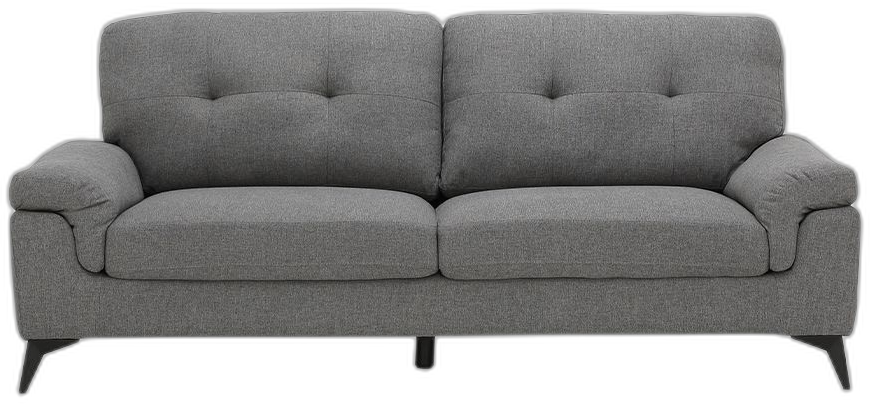
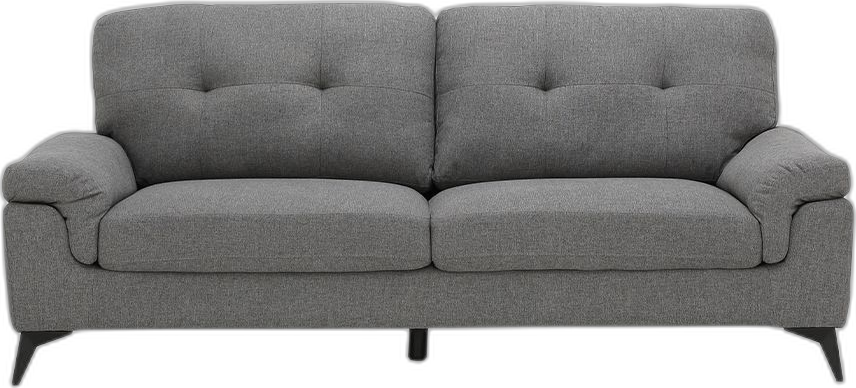
Polish constructor visuals + multi-wall rooms + expand photo catalog to 15
- Premium scene: wall lighting + vignette, floor reflections, soft contact shadows (furniture grounded, no longer floating), wall-floor AO, on-wall shadows, baseboard
- Rooms now have 4 walls each: switcher in side panel, per-wall items, color/height per room, width per wall; order aggregates across all walls
- Catalog: +10 real cutout products (table, TV stand, coffee table, armchair, dresser, washer, kitchen base, hood, toilet, shelf), pixel-accurate aspect so photos do not distort
- fetch_products.py: alpha-threshold trim (45) so cutouts sit flat on the floor

diff --git a/app/index.html b/app/index.html
@@ -112,6 +112,16 @@
   .sw:hover{transform:scale(1.06)}
   .sw.on{border-color:var(--ink);box-shadow:0 0 0 2px var(--surface) inset}
   .sw-name{padding:0 16px 10px;font-size:12px;color:var(--ink-2)}
+  .wallnav{display:flex;align-items:center;gap:10px;padding:14px 16px 2px}
+  .wnav-btn{width:32px;height:32px;flex:none;border-radius:8px;border:1px solid var(--line-2);background:var(--surface);font-size:18px;color:var(--ink-2);display:grid;place-items:center;transition:all .15s}
+  .wnav-btn:hover{background:var(--bg);border-color:var(--accent);color:var(--accent)}
+  .wallnav-mid{flex:1;text-align:center;font-size:12.5px;min-width:0}
+  .wallnav-mid b{display:block;font-weight:600;white-space:nowrap;overflow:hidden;text-overflow:ellipsis}
+  .wallnav-dots{display:inline-flex;gap:6px;margin-top:6px}
+  .wallnav-dots i{width:8px;height:8px;border-radius:50%;background:var(--line-2);cursor:pointer;transition:transform .12s}
+  .wallnav-dots i:hover{transform:scale(1.35)}
+  .wallnav-dots i.has{background:var(--accent)}
+  .wallnav-dots i.on{background:var(--ink);box-shadow:0 0 0 3px var(--accent-soft)}
   .sel-card{border-top:1px solid var(--line);padding-bottom:8px}
   .sel-card .head{padding:12px 16px 2px}
   .sel-card .head b{font-size:13.5px}
@@ -267,11 +277,21 @@ const CATALOG = [
   {sku:'WC38',name:'Унитаз',store:'homepro',price:5990,w:38,h:78,mount:'floor',draw:'toilet',vars:[{name:'Белый',fill:'#eeebe4'}],rooms:['bath']},
   {sku:'SHW90',name:'Душевой уголок 90',store:'homepro',price:11990,w:90,h:200,mount:'floor',draw:'shower',vars:[{name:'Стекло',fill:'#cfe0e6'}],rooms:['bath']},
   // --- Этап B: реальные товары с вырезанными фото (Firecrawl scrape + rembg) ---
-  {sku:'R-FRIDGE',name:'Холодильник Toshiba 11.9 фт³',store:'homepro',price:9290,old:13990,w:60,h:161,mount:'floor',img:'fridge-toshiba.png',draw:'fridge',vars:[{name:'Тёмно-синий',fill:'#2b3138'}],rooms:['kitchen']},
-  {sku:'R-SOFAL',name:'Диван 3-местный Lamona',store:'index',price:9990,w:214,h:99,mount:'floor',img:'sofa-lamona.png',draw:'sofa',vars:[{name:'Серый',fill:'#8e8a84'}],rooms:['living']},
-  {sku:'R-SOFAK',name:'Диван угловой Koncept Zette',store:'homepro',price:12255,old:15600,w:213,h:109,mount:'floor',img:'sofa-koncept.png',draw:'sofa',vars:[{name:'Шоколад',fill:'#5a4a42'}],rooms:['living']},
-  {sku:'R-WARD',name:'Шкаф 4-дверный Maxi',store:'index',price:17990,w:180,h:218,mount:'floor',img:'wardrobe-maxi.png',draw:'wardrobe',vars:[{name:'Серый',fill:'#b7b3ad'}],rooms:['bedroom','living']},
-  {sku:'R-BED',name:'Кровать Rotterdam 6 фт',store:'index',price:8590,w:165,h:102,mount:'floor',img:'bed-rotterdam.png',draw:'bed',vars:[{name:'Дуб / белый',fill:'#c9b48f'}],rooms:['bedroom']},
+  {sku:'R-FRIDGE',name:'Холодильник Toshiba 11.9 фт³',store:'homepro',price:9290,old:13990,w:60,h:167,mount:'floor',img:'fridge-toshiba.png',draw:'fridge',vars:[{name:'Тёмно-синий',fill:'#2b3138'}],rooms:['kitchen']},
+  {sku:'R-SOFAL',name:'Диван 3-местный Lamona',store:'index',price:9990,w:214,h:97,mount:'floor',img:'sofa-lamona.png',draw:'sofa',vars:[{name:'Серый',fill:'#8e8a84'}],rooms:['living']},
+  {sku:'R-SOFAK',name:'Диван угловой Koncept Zette',store:'homepro',price:12255,old:15600,w:213,h:106,mount:'floor',img:'sofa-koncept.png',draw:'sofa',vars:[{name:'Шоколад',fill:'#5a4a42'}],rooms:['living']},
+  {sku:'R-WARD',name:'Шкаф 4-дверный Maxi',store:'index',price:17990,w:180,h:219,mount:'floor',img:'wardrobe-maxi.png',draw:'wardrobe',vars:[{name:'Серый',fill:'#b7b3ad'}],rooms:['bedroom','living']},
+  {sku:'R-BED',name:'Кровать Rotterdam 6 фт',store:'index',price:8590,w:165,h:101,mount:'floor',img:'bed-rotterdam.png',draw:'bed',vars:[{name:'Дуб / белый',fill:'#c9b48f'}],rooms:['bedroom']},
+  {sku:'R-DINTBL',name:'Обеденный стол Serrano 160',store:'index',price:8990,w:160,h:80,mount:'floor',img:'dining-table-index.png',draw:'base',vars:[{name:'Серый',fill:'#8a8a8a'}],rooms:['living']},
+  {sku:'R-TVST',name:'ТВ-тумба Curvy 160',store:'index',price:5940,w:160,h:51,mount:'floor',img:'tv-stand-index.png',draw:'base',vars:[{name:'Белый',fill:'#f0eee9'}],rooms:['living','bedroom']},
+  {sku:'R-COFFEE',name:'Журнальный стол Maribo 120',store:'index',price:2190,w:120,h:52,mount:'floor',img:'coffee-table-index.png',draw:'base',vars:[{name:'Лайт оук',fill:'#c8a86e'}],rooms:['living']},
+  {sku:'R-ARM',name:'Кресло Pillry',store:'index',price:1990,w:58,h:86,mount:'floor',img:'armchair-index.png',draw:'sofa',vars:[{name:'Серый',fill:'#b0aba8'}],rooms:['living','bedroom']},
+  {sku:'R-DRESS',name:'Комод Molly 4 ящика 80',store:'index',price:4590,w:80,h:102,mount:'floor',img:'dresser-index.png',draw:'wardrobe',vars:[{name:'Лайт оук',fill:'#c4a05a'}],rooms:['bedroom','living']},
+  {sku:'R-NIGHT',name:'Стеллаж узкий Valux 63',store:'index',price:1290,w:63,h:103,mount:'floor',img:'nightstand-index.png',draw:'base',vars:[{name:'Белый',fill:'#f0f0ef'}],rooms:['bedroom','living']},
+  {sku:'R-WASH',name:'Стиральная машина LG 10 кг',store:'homepro',price:16800,w:60,h:85,mount:'floor',img:'washer-lg.png',draw:'washer',vars:[{name:'Белый',fill:'#f2f2f2'}],rooms:['kitchen','bath']},
+  {sku:'R-KBASE',name:'Тумба кухонная Cabin 60',store:'homepro',price:4503,old:5600,w:60,h:84,mount:'floor',img:'kitchen-base-homepro.png',draw:'base',vars:[{name:'Белый',fill:'#ffffff'}],rooms:['kitchen']},
+  {sku:'R-HOOD',name:'Вытяжка Lucky Flame 90',store:'homepro',price:9900,old:14900,w:90,h:57,mount:'wall',elev:150,img:'hood-homepro.png',draw:'hood',vars:[{name:'Сталь',fill:'#c0bfbd'}],rooms:['kitchen']},
+  {sku:'R-WC',name:'Унитаз Nasco NC-8611S',store:'homepro',price:5590,w:39,h:49,mount:'floor',img:'toilet-homepro.png',draw:'toilet',vars:[{name:'Белый',fill:'#f5f4f2'}],rooms:['bath']},
 ];
 const prod = sku => CATALOG.find(p=>p.sku===sku);
 
@@ -405,17 +425,10 @@ function renderPlan(){ drawPlan(); renderPlanLeft(); syncHeader(); save(); }
 
 function confirmPlan(){
   if(!app.rooms.length) return;
-  // создаём/обновляем стены для всех комнат, сохраняя уже обставленные
-  for(const r of app.rooms){
-    if(!app.walls[r.id]){
-      const types=roomTypes(r.name);
-      app.walls[r.id]={wallW:Math.round(Math.max(r.w,r.h)*10)/10, wallH:2.7, paint:TYPE_PAINT[types[0]], items:[]};
-    }
-  }
-  for(const k of Object.keys(app.walls)) if(!app.rooms.find(r=>String(r.id)===String(k))) delete app.walls[k];
+  ensureRoomWalls();
   roomKey = String(app.rooms[0].id);
   show('rooms');
-  wallHintShow(`Планировка подтверждена: ${app.rooms.length} помещений. Можно обставить хоть одно — например, только кухню`, 4600);
+  wallHintShow(`Планировка подтверждена: ${app.rooms.length} помещений, у каждого 4 стены. Можно обставить хоть одно — например, только кухню`, 4600);
 }
 
 /* ====================================================================
@@ -425,8 +438,28 @@ const wallSvg=$('#wallSvg'), roomsLeft=$('#roomsLeft'), roomsRight=$('#roomsRigh
 let roomKey=null, wallSel=null, wallDrag=null;
 function wallHintShow(t,ms=2800){wallHint.textContent=t;wallHint.classList.add('show');clearTimeout(wallHint._t);if(ms)wallHint._t=setTimeout(()=>wallHint.classList.remove('show'),ms);}
 function roomMeta(id){ const r=app.rooms.find(x=>String(x.id)===String(id)); return r?{name:r.name,types:roomTypes(r.name)}:{name:'?',types:['living']}; }
-const wallOf = id => app.walls[id];
-const curWall = ()=>wallOf(roomKey);
+// Комната = 4 стены (sides). Каждая сторона: {wallW, wallH, paint, items}.
+// curWall() возвращает активную сторону — весь код ниже работает с ней как раньше.
+function ensureRoomWalls(){
+  for(const r of app.rooms){
+    const types=roomTypes(r.name), paint=TYPE_PAINT[types[0]];
+    const widths=[r.w,r.h,r.w,r.h].map(v=>Math.round(v*10)/10);
+    let rw=app.walls[r.id];
+    if(!rw){
+      app.walls[r.id]={active:0, sides:widths.map(wv=>({wallW:wv,wallH:2.7,paint,items:[]}))};
+    } else if(!rw.sides){            // миграция старого формата {wallW,wallH,paint,items}
+      const o={wallW:rw.wallW||widths[0],wallH:rw.wallH||2.7,paint:rw.paint||paint,items:rw.items||[]};
+      app.walls[r.id]={active:0, sides:[o,
+        {wallW:widths[1],wallH:o.wallH,paint:o.paint,items:[]},
+        {wallW:widths[2],wallH:o.wallH,paint:o.paint,items:[]},
+        {wallW:widths[3],wallH:o.wallH,paint:o.paint,items:[]}]};
+    }
+  }
+  for(const k of Object.keys(app.walls)) if(!app.rooms.find(r=>String(r.id)===String(k))) delete app.walls[k];
+}
+const curRW = ()=>app.walls[roomKey];
+const curWall = ()=>{ const rw=app.walls[roomKey]; return rw&&rw.sides ? rw.sides[rw.active] : null; };
+const SIDE_NAMES=['Фронтальная','Правая','Задняя','Левая'];
 
 const layer=p=>p.mount==='bg'?'bg':(p.mount==='floor'?'floor':'wall');
 function itemBox(it){const p=prod(it.sku);return{x:it.x,y:it.y,w:p.w/100,h:p.h/100};}
@@ -436,8 +469,8 @@ function problems(it,w){
   if(layer(p)!=='bg')for(const o of w.items){if(o.id===it.id)continue;const po=prod(o.sku);if(layer(po)!==layer(p))continue;const ob=itemBox(o);if(b.x<ob.x+ob.w&&b.x+b.w>ob.x&&b.y<ob.y+ob.h&&b.y+b.h>ob.y){out.push(`${p.name}: пересекается с «${po.name}»`);break;}}
   return out;
 }
-function allEntries(){const out=[];for(const r of app.rooms){const w=app.walls[r.id];if(!w)continue;for(const it of w.items){const p=prod(it.sku);if(p.store)out.push({room:r.name,it,p});}}return out;}
-function allProblems(){const out=[];for(const r of app.rooms){const w=app.walls[r.id];if(!w||!w.items.length)continue;for(const it of w.items)for(const t of problems(it,w))out.push(`${r.name}: ${t}`);}return out;}
+function allEntries(){const out=[];for(const r of app.rooms){const rw=app.walls[r.id];if(!rw||!rw.sides)continue;for(const side of rw.sides)for(const it of side.items){const p=prod(it.sku);if(p.store)out.push({room:r.name,it,p});}}return out;}
+function allProblems(){const out=[];for(const r of app.rooms){const rw=app.walls[r.id];if(!rw||!rw.sides)continue;for(const side of rw.sides){if(!side.items.length)continue;for(const it of side.items)for(const t of problems(it,side))out.push(`${r.name}: ${t}`);}}return out;}
 const projTotal=()=>allEntries().reduce((s,e)=>s+e.p.price,0);
 
 /* отрисовщики предметов */
@@ -473,7 +506,8 @@ function miniSvg(p){
 
 function renderRoomBar(){
   roomBar.innerHTML=app.rooms.map(r=>{
-    const w=app.walls[r.id],cnt=w?w.items.filter(i=>prod(i.sku).store).length:0;
+    const rw=app.walls[r.id];
+    const cnt=rw&&rw.sides?rw.sides.reduce((s,sd)=>s+sd.items.filter(i=>prod(i.sku).store).length,0):0;
     return `<button class="room-tab ${String(r.id)===String(roomKey)?'on':''}" data-rk="${r.id}" role="tab">${esc(r.name)}${cnt?`<span class="cnt num">${cnt}</span>`:''}</button>`;
   }).join('');
   roomBar.querySelectorAll('[data-rk]').forEach(b=>b.onclick=()=>{roomKey=b.dataset.rk;wallSel=null;renderRooms();});
@@ -495,14 +529,20 @@ function renderRoomsLeft(){
   roomsLeft.querySelectorAll('[data-sku]').forEach(b=>b.onclick=()=>addItem(b.dataset.sku));
 }
 function renderRoomsRight(){
-  const w=curWall(), meta=roomMeta(roomKey);
+  const w=curWall(), rw=curRW(), active=rw.active, meta=roomMeta(roomKey);
   const it=w.items.find(i=>i.id===wallSel);
   const probs=w.items.flatMap(i=>problems(i,w));
   const shop=w.items.filter(i=>prod(i.sku).store);
   const entries=allEntries(), roomsUsed=new Set(entries.map(e=>e.room)).size, projProbs=allProblems();
   const upd=new Date();upd.setMinutes(0,0,0);
   roomsRight.innerHTML=`
-    <h2>Стена · ${esc(meta.name)}</h2>
+    <div class="wallnav">
+      <button class="wnav-btn" id="wallPrev" aria-label="Предыдущая стена">‹</button>
+      <div class="wallnav-mid"><b>${esc(meta.name)} · стена ${active+1}/4</b>
+        <span class="wallnav-dots">${rw.sides.map((s,i)=>`<i class="${i===active?'on':''}${s.items.length?' has':''}" data-wn="${i}" title="${SIDE_NAMES[i]}"></i>`).join('')}</span></div>
+      <button class="wnav-btn" id="wallNext" aria-label="Следующая стена">›</button>
+    </div>
+    <h2>${SIDE_NAMES[active]} стена</h2>
     <div class="row2">
       <div class="field"><label>Ширина, м</label><input id="ww" type="number" step="0.1" min="1.5" max="9" value="${w.wallW}"></div>
       <div class="field"><label>Высота, м</label><input id="wh" type="number" step="0.05" min="2.2" max="4" value="${w.wallH}"></div>
@@ -522,9 +562,12 @@ function renderRoomsRight(){
       <button class="btn btn-primary" id="orderBtn" ${entries.length&&!projProbs.length?'':'disabled'} title="${projProbs.length?'Сначала исправь: '+esc(projProbs[0]):''}">Оплатить заказ →</button>
     </div>
     <p class="muted-note">POC: схематичные блоки реальных габаритов; фотореализм — следующий этап.</p>`;
-  $('#ww').onchange=e=>{w.wallW=Math.max(1.5,Math.min(9,+e.target.value||w.wallW));renderRooms();};
-  $('#wh').onchange=e=>{w.wallH=Math.max(2.2,Math.min(4,+e.target.value||2.7));renderRooms();};
-  roomsRight.querySelectorAll('[data-paint]').forEach(b=>b.onclick=()=>{w.paint=b.dataset.paint;renderRooms();});
+  $('#ww').onchange=e=>{w.wallW=Math.max(1.5,Math.min(9,+e.target.value||w.wallW));renderRooms();};            // ширина — у каждой стены своя
+  $('#wh').onchange=e=>{const v=Math.max(2.2,Math.min(4,+e.target.value||2.7));rw.sides.forEach(s=>s.wallH=v);renderRooms();};   // высота — на всю комнату
+  roomsRight.querySelectorAll('[data-paint]').forEach(b=>b.onclick=()=>{rw.sides.forEach(s=>s.paint=b.dataset.paint);renderRooms();});  // цвет — на всю комнату
+  $('#wallPrev').onclick=()=>{rw.active=(rw.active+3)%4;wallSel=null;renderRooms();};
+  $('#wallNext').onclick=()=>{rw.active=(rw.active+1)%4;wallSel=null;renderRooms();};
+  roomsRight.querySelectorAll('[data-wn]').forEach(d=>d.onclick=()=>{rw.active=+d.dataset.wn;wallSel=null;renderRooms();});
   $('#exportBtn').onclick=exportPNG;
   $('#saveBtn').onclick=()=>{save();wallHintShow('Проект сохранён. В Фазе 1 — сохранение в аккаунт с любого устройства');};
   $('#orderBtn').onclick=()=>{if(allEntries().length&&!allProblems().length){show('order');}};
@@ -539,31 +582,72 @@ function selCard(it){
 let WPX=180; const FLOOR_H=0.45;
 function wallScale(){const r=wallSvg.getBoundingClientRect(),w=curWall();WPX=Math.min((r.width-80)/w.wallW,(r.height-60)/(w.wallH+FLOOR_H));WPX=Math.max(60,Math.min(260,WPX));}
 const wmx=m=>40+m*WPX, wmy=m=>20+(curWall().wallH-m)*WPX;
+function sceneDefs(){
+  const w=curWall(),W=w.wallW,x0=wmx(0),fy=wmy(0),fh=FLOOR_H*WPX,blur=Math.max(2.5,WPX*0.035);
+  return `<defs>
+    <pattern id="grain" width="14" height="160" patternUnits="userSpaceOnUse"><path d="M4 0 q3 40 0 80 q-3 40 0 80 M10 0 q-2 50 1 95 q2 35 -1 65" stroke="rgba(60,40,20,.14)" stroke-width="1.4" fill="none"/></pattern>
+    <linearGradient id="glass" x1="0" y1="0" x2="1" y2="1"><stop offset="0" stop-color="#dcebef"/><stop offset="1" stop-color="#c4d8de"/></linearGradient>
+    <radialGradient id="wallLight" cx="36%" cy="-6%" r="125%"><stop offset="0" stop-color="#fff" stop-opacity="0.16"/><stop offset="44%" stop-color="#fff" stop-opacity="0.02"/><stop offset="100%" stop-color="#1c1917" stop-opacity="0.16"/></radialGradient>
+    <linearGradient id="floorGrad" x1="0" y1="0" x2="0" y2="1"><stop offset="0" stop-color="#caa97a"/><stop offset="1" stop-color="#a4854f"/></linearGradient>
+    <linearGradient id="floorFade" x1="0" y1="0" x2="0" y2="1"><stop offset="0" stop-color="#bd9b6c" stop-opacity="0.12"/><stop offset="0.8" stop-color="#b2905f" stop-opacity="0.9"/><stop offset="1" stop-color="#a4854f" stop-opacity="1"/></linearGradient>
+    <filter id="contact" x="-70%" y="-70%" width="240%" height="240%"><feGaussianBlur stdDeviation="${blur}"/></filter>
+    <filter id="wallshadow" x="-40%" y="-40%" width="180%" height="180%"><feGaussianBlur stdDeviation="${blur*1.3}"/></filter>
+    <linearGradient id="wallAO" x1="0" y1="0" x2="0" y2="1"><stop offset="0" stop-color="#1c1917" stop-opacity="0"/><stop offset="1" stop-color="#1c1917" stop-opacity="0.13"/></linearGradient>
+    <clipPath id="floorClip"><rect x="${x0}" y="${fy}" width="${W*WPX}" height="${fh}"/></clipPath>
+  </defs>`;
+}
+function itemBody(it){
+  const p=prod(it.sku),pw=p.w/100*WPX,ph=p.h/100*WPX;
+  return p.img ? `<image href="assets/products/${p.img}" x="0" y="0" width="${pw}" height="${ph}" preserveAspectRatio="none"/>` : DRAW[p.draw](pw,ph,p.vars[it.variant]);
+}
 function drawWall(){
   wallScale();const w=curWall(),W=w.wallW,H=w.wallH;
   wallSvg.setAttribute('viewBox',`0 0 ${W*WPX+80} ${(H+FLOOR_H)*WPX+40}`);
-  let g=grainDefs();
-  g+=`<rect x="${wmx(0)}" y="${wmy(H)}" width="${W*WPX}" height="${H*WPX}" fill="${w.paint}"/>`;
-  g+=`<rect x="${wmx(0)}" y="${wmy(0)}" width="${W*WPX}" height="${FLOOR_H*WPX}" fill="${FLOOR}"/>`;
-  for(let i=1;i<6;i++)g+=`<line x1="${wmx(0)}" y1="${wmy(0)+FLOOR_H*WPX/6*i}" x2="${wmx(W)}" y2="${wmy(0)+FLOOR_H*WPX/6*i}" stroke="rgba(28,25,23,.08)"/>`;
-  g+=`<rect x="${wmx(0)}" y="${wmy(0)-6}" width="${W*WPX}" height="6" fill="#dcd5c8"/>`;
-  g+=`<rect x="${wmx(0)}" y="${wmy(H)}" width="${W*WPX}" height="${H*WPX}" fill="none" stroke="#a39e94" stroke-width="2"/>`;
-  g+=`<line x1="${wmx(0)}" y1="${wmy(H)-12}" x2="${wmx(W)}" y2="${wmy(H)-12}" stroke="#a8a29e"/><text x="${wmx(W/2)}" y="${wmy(H)-18}" text-anchor="middle" font-size="11" fill="#78716c" font-family="JetBrains Mono">${W.toFixed(1).replace('.',',')} м</text>`;
+  const x0=wmx(0), wy=wmy(H), fy=wmy(0), fh=FLOOR_H*WPX;
+  let g=sceneDefs();
+  // СТЕНА: краска + мягкий свет сверху-слева + виньетка по углам
+  g+=`<rect x="${x0}" y="${wy}" width="${W*WPX}" height="${H*WPX}" fill="${w.paint}"/>`;
+  g+=`<rect x="${x0}" y="${wy}" width="${W*WPX}" height="${H*WPX}" fill="url(#wallLight)"/>`;
+  g+=`<rect x="${x0}" y="${fy-0.55*WPX}" width="${W*WPX}" height="${0.55*WPX}" fill="url(#wallAO)"/>`;   // затемнение угла стена-пол
+  // ПОЛ: градиент глубины + перспективные доски
+  g+=`<rect x="${x0}" y="${fy}" width="${W*WPX}" height="${fh}" fill="url(#floorGrad)"/>`;
+  for(let i=1;i<6;i++){const yy=fy+fh/5.5*i;g+=`<line x1="${x0}" y1="${yy}" x2="${x0+W*WPX}" y2="${yy}" stroke="rgba(60,40,20,${0.05+i*0.012})"/>`;}
+  for(let xm=0.6;xm<W;xm+=1.2){g+=`<line x1="${wmx(xm)}" y1="${fy}" x2="${wmx(xm)+fh*0.16}" y2="${fy+fh}" stroke="rgba(60,40,20,.07)"/>`;}
+  // ПЛИНТУС с бликом
+  g+=`<rect x="${x0}" y="${fy-8}" width="${W*WPX}" height="8" fill="#e9e3d7"/><rect x="${x0}" y="${fy-8}" width="${W*WPX}" height="2" fill="rgba(255,255,255,.5)"/><rect x="${x0}" y="${fy-1}" width="${W*WPX}" height="1.5" fill="rgba(28,25,23,.18)"/>`;
   const order={bg:0,floor:1,wall:2,ceil:3};
   const sorted=[...w.items].sort((a,b)=>order[layer(prod(a.sku))]-order[layer(prod(b.sku))]);
+  // ОТРАЖЕНИЯ на полу (только стоящие на полу), затухают в пол
+  g+=`<g clip-path="url(#floorClip)">`;
+  for(const it of sorted){ if(layer(prod(it.sku))!=='floor')continue;
+    const p=prod(it.sku),pw=p.w/100*WPX,ph=p.h/100*WPX,x=wmx(it.x);
+    g+=`<g opacity="0.2" transform="matrix(1,0,0,-1,0,${2*fy})"><g transform="translate(${x} ${fy-ph})">${itemBody(it)}</g></g>`;
+  }
+  g+=`</g><rect x="${x0}" y="${fy}" width="${W*WPX}" height="${fh}" fill="url(#floorFade)"/>`;
+  // размерная линейка
+  g+=`<line x1="${x0}" y1="${wy-12}" x2="${x0+W*WPX}" y2="${wy-12}" stroke="#a8a29e"/><text x="${wmx(W/2)}" y="${wy-18}" text-anchor="middle" font-size="11" fill="#78716c" font-family="JetBrains Mono">${W.toFixed(1).replace('.',',')} м</text>`;
+  // ТЕНИ НА СТЕНЕ за мебелью (мягкие, смещены от света слева-сверху) — «вклеивают» предмет в сцену
+  for(const it of sorted){ const p=prod(it.sku); if(layer(p)==='bg')continue;
+    const pw=p.w/100*WPX,ph=p.h/100*WPX,x=wmx(it.x),y=wmy(it.y+p.h/100);
+    g+=`<rect x="${x+pw*0.05}" y="${y+ph*0.06}" width="${pw}" height="${ph}" rx="7" fill="rgba(28,22,14,.11)" filter="url(#wallshadow)"/>`;
+  }
+  // КОНТАКТНЫЕ ТЕНИ под мебелью (мягкие, размытые — мебель «стоит», не висит)
+  for(const it of sorted){ if(layer(prod(it.sku))!=='floor')continue;
+    const p=prod(it.sku),pw=p.w/100*WPX,x=wmx(it.x);
+    g+=`<ellipse cx="${x+pw/2}" cy="${fy+2}" rx="${pw*0.5}" ry="${Math.max(7,WPX*0.06)}" fill="rgba(28,22,14,.34)" filter="url(#contact)"/>`;
+  }
+  // ПРЕДМЕТЫ
   for(const it of sorted){
     const p=prod(it.sku),pw=p.w/100*WPX,ph=p.h/100*WPX,x=wmx(it.x),y=wmy(it.y+p.h/100);
     const bad=problems(it,w).length>0,s=wallSel===it.id;
-    if(layer(p)==='floor')g+=`<ellipse cx="${x+pw/2}" cy="${wmy(0)+3}" rx="${pw/2*0.92}" ry="4.5" fill="rgba(28,25,23,.10)"/>`;
-    const body = p.img ? `<image href="assets/products/${p.img}" x="0" y="0" width="${pw}" height="${ph}" preserveAspectRatio="none"/>` : DRAW[p.draw](pw,ph,p.vars[it.variant]);
-    g+=`<g data-item="${it.id}" transform="translate(${x} ${y})" style="cursor:grab">${body}
+    g+=`<g data-item="${it.id}" transform="translate(${x} ${y})" style="cursor:grab">${itemBody(it)}
       ${bad?`<rect x="-3" y="-3" width="${pw+6}" height="${ph+6}" fill="rgba(185,28,28,.12)" stroke="#b91c1c" stroke-width="2" rx="4"/>`:''}
-      ${s?`<rect x="-4" y="-4" width="${pw+8}" height="${ph+8}" fill="none" stroke="#0f766e" stroke-width="2" stroke-dasharray="6 4" rx="4"/><text x="${pw/2}" y="-10" text-anchor="middle" font-size="11" fill="#0f766e" font-weight="600" font-family="JetBrains Mono">${p.w}×${p.h}</text>`:''}
+      ${s?`<rect x="-5" y="-5" width="${pw+10}" height="${ph+10}" fill="none" stroke="#0f766e" stroke-width="2" stroke-dasharray="6 4" rx="5"/><text x="${pw/2}" y="-11" text-anchor="middle" font-size="11" fill="#0f766e" font-weight="600" font-family="JetBrains Mono">${p.w}×${p.h} см</text>`:''}
     </g>`;
   }
-  if(!w.items.length)g+=`<text x="${wmx(W/2)}" y="${wmy(H/2)}" text-anchor="middle" font-size="14" fill="#a39e94" font-family="Outfit">Пустая стена — выбери товар слева</text>`;
+  if(!w.items.length)g+=`<text x="${wmx(W/2)}" y="${wmy(H*0.55)}" text-anchor="middle" font-size="14" fill="rgba(28,25,23,.32)" font-family="Outfit">Пустая стена — выбери товар слева</text>`;
   wallSvg.innerHTML=g;
-  $('#wallInfo').textContent=`${meta_name()} · стена ${W.toFixed(1).replace('.',',')} × ${H.toFixed(2).replace('.',',')} м · схематичный режим`;
+  $('#wallInfo').textContent=`${meta_name()} · стена ${curRW().active+1}/4 · ${W.toFixed(1).replace('.',',')}×${H.toFixed(2).replace('.',',')} м`;
 }
 function meta_name(){return roomMeta(roomKey).name;}
 function defaultY(p){const w=curWall();if(p.mount==='floor')return 0;if(p.mount==='ceil')return w.wallH-p.h/100;return (p.elev??120)/100;}
@@ -677,7 +761,7 @@ function show(screen){
   syncHeader(); save();
 }
 function confirmPlanSilent(){
-  for(const r of app.rooms){ if(!app.walls[r.id]){const types=roomTypes(r.name);app.walls[r.id]={wallW:Math.round(Math.max(r.w,r.h)*10)/10,wallH:2.7,paint:TYPE_PAINT[types[0]],items:[]};} }
+  ensureRoomWalls();
   if(!roomKey||!app.rooms.find(r=>String(r.id)===String(roomKey))) roomKey=String(app.rooms[0].id);
 }
 $('#stepPlan').onclick=()=>show('plan');

diff --git a/scripts/fetch_products.py b/scripts/fetch_products.py
@@ -41,7 +41,10 @@ for sku, w_cm, url in PRODUCTS:
         continue
     cut = remove(raw)                     # bytes PNG с альфа-каналом
     img = Image.open(io.BytesIO(cut)).convert("RGBA")
-    bbox = img.getbbox()                  # обрезать прозрачные поля
+    # обрезка по ПОРОГУ прозрачности (не >0): убирает полупрозрачные поля/тень-ореол
+    # после rembg — иначе товар «висит» над полом из-за невидимых пикселей снизу
+    mask = img.split()[3].point(lambda p: 255 if p > 45 else 0)
+    bbox = mask.getbbox()
     if bbox:
         img = img.crop(bbox)
     img.save(os.path.join(OUT, f"{sku}.png"))

diff --git a/ROADMAP.md b/ROADMAP.md
@@ -22,7 +22,9 @@
 | **Прототип планировщика** | `prototype/planner.html` | Кликабельный прототип всего флоу Фазы 1: шаблоны планировок Пхукета / свой план → каталог 35 демо-SKU из 4 магазинов (HomePro, Index, IKEA, Power Buy) с фильтрами и акциями → расстановка с проверкой габаритов и коллизий → смета по магазинам → заказ «3 чека». Открывается двойным кликом, состояние в localStorage |
 | **POC вида на стену** | `prototype/wall-view.html` | Elevation-вид (§3.4): 4 помещения, стена с настраиваемой шириной/высотой/цветом, каталог 23 SKU со схематичными фронтальными блоками реальных габаритов, **смена цвета/варианта у выбранного предмета** (красные фасады → красные; зелёный холодильник → зелёный), слои напольное/навесное/фон, магнитная привязка модулей друг к другу, проверка «шире стены»/пересечений, смета по магазинам, **экспорт картинки стены в PNG**. Этап A (блоки); этап B — реальные вырезанные фото |
 | **★ Единое приложение** | `app/index.html` | Прототипы выше слиты в ОДНУ страницу-приложение (одно состояние `dl-app`, один URL): экран 1 «Планировка» (шаблоны/свой план + «Подтвердить планировку») → экран 2 «Помещения» (вкладки из плана, вид на стену, обстановка) → экран 3 «Заказ» (чеки по магазинам + форма доставки). Шаги в шапке, навигация без перезагрузки, состояние переживает reload. **Это основной артефакт для демо.** Публичный URL: https://deadline-corp.github.io/interior-quiz-mvp/app/ |
-| **Этап B — реальные фото** | `app/assets/products/*.png` + `scripts/fetch_products.py` | 5 реальных товаров (холодильник Toshiba, диваны Lamona/Koncept, шкаф Maxi, кровать Rotterdam) скрейпнуты с HomePro/Index, фон вырезан через rembg, обрезаны прозрачные поля. В каталоге приложения соседствуют со схематичными (гибрид): фото-товар рисуется `<image>` на стене, схематичные — SVG-блоками. Габариты фото взяты по реальной пропорции packshot. Экспорт PNG встраивает фото как base64 (иначе внешние href не попадают в картинку). Пайплайн воспроизводимый: `python scripts/fetch_products.py` |
+| **Этап B — реальные фото** | `app/assets/products/*.png` + `scripts/fetch_products.py` | **15 реальных товаров** (холодильник, 2 дивана, кресло, шкаф, кровать, комод, стол, ТВ-тумба, журнальный стол, стиралка, кухонная тумба, вытяжка, унитаз, стеллаж) скрейпнуты с HomePro/Index, фон вырезан через rembg (обрезка по alpha-порогу 45 — иначе товар «висит»). Гибрид: фото-товар рисуется `<image>`, схематичные — SVG. Габариты по пиксельной пропорции packshot (не искажается). Экспорт PNG встраивает фото base64. Пайплайн: `python scripts/fetch_products.py`. Урок: Power Buy (Next.js SPA) фото не отдаёт — Index (Magento) и HomePro надёжны |
+| **Визуал «шикарно»** | `app/index.html` (drawWall) | Премиум-вид сцены: мягкое освещение стены (радиальный градиент + виньетка), деревянный пол с **отражением мебели**, **контактные тени** под мебелью (мебель стоит, не висит), затемнение угла стена-пол (AO), тени на стене за мебелью, плинтус с бликом. Превратил «фото в воздухе» в мебельный визуализатор |
+| **Все 4 стены помещения** | `app/index.html` | Комната = 4 стены (ширины из габаритов), переключатель ‹ ›+точки в правой панели, мебель на каждой стене своя. Цвет/высота — на всю комнату, ширина — на стену. Смета и заказ собирают товары со всех стен всех комнат |
 | Scope-документ | `docs/scope.html`, PDF | Объём работ (от партнёра) |
 
 ## 3. Фаза 1 — конечная точка (спека)
